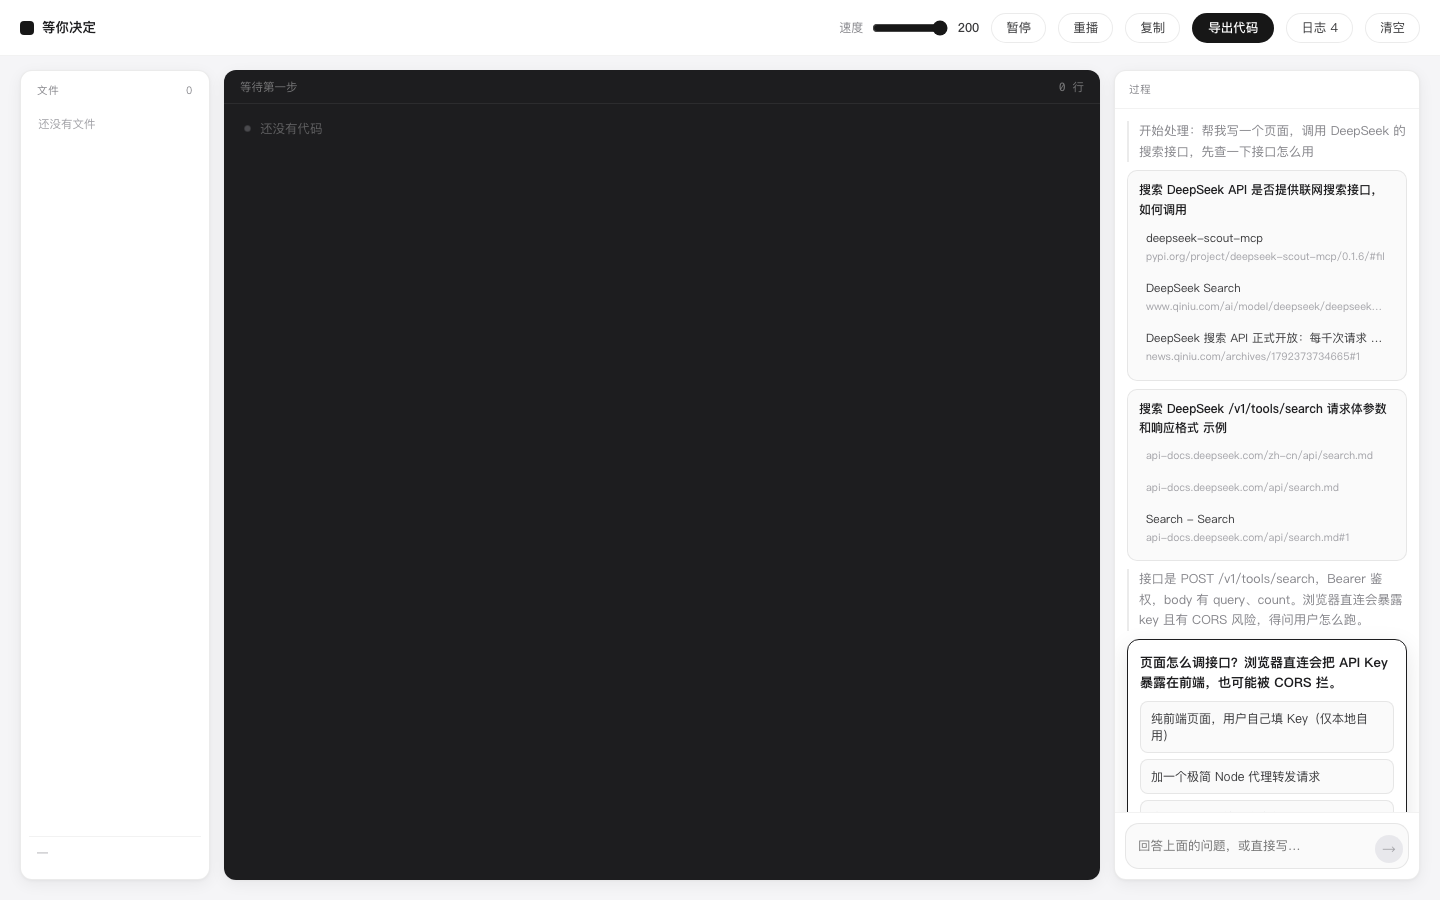
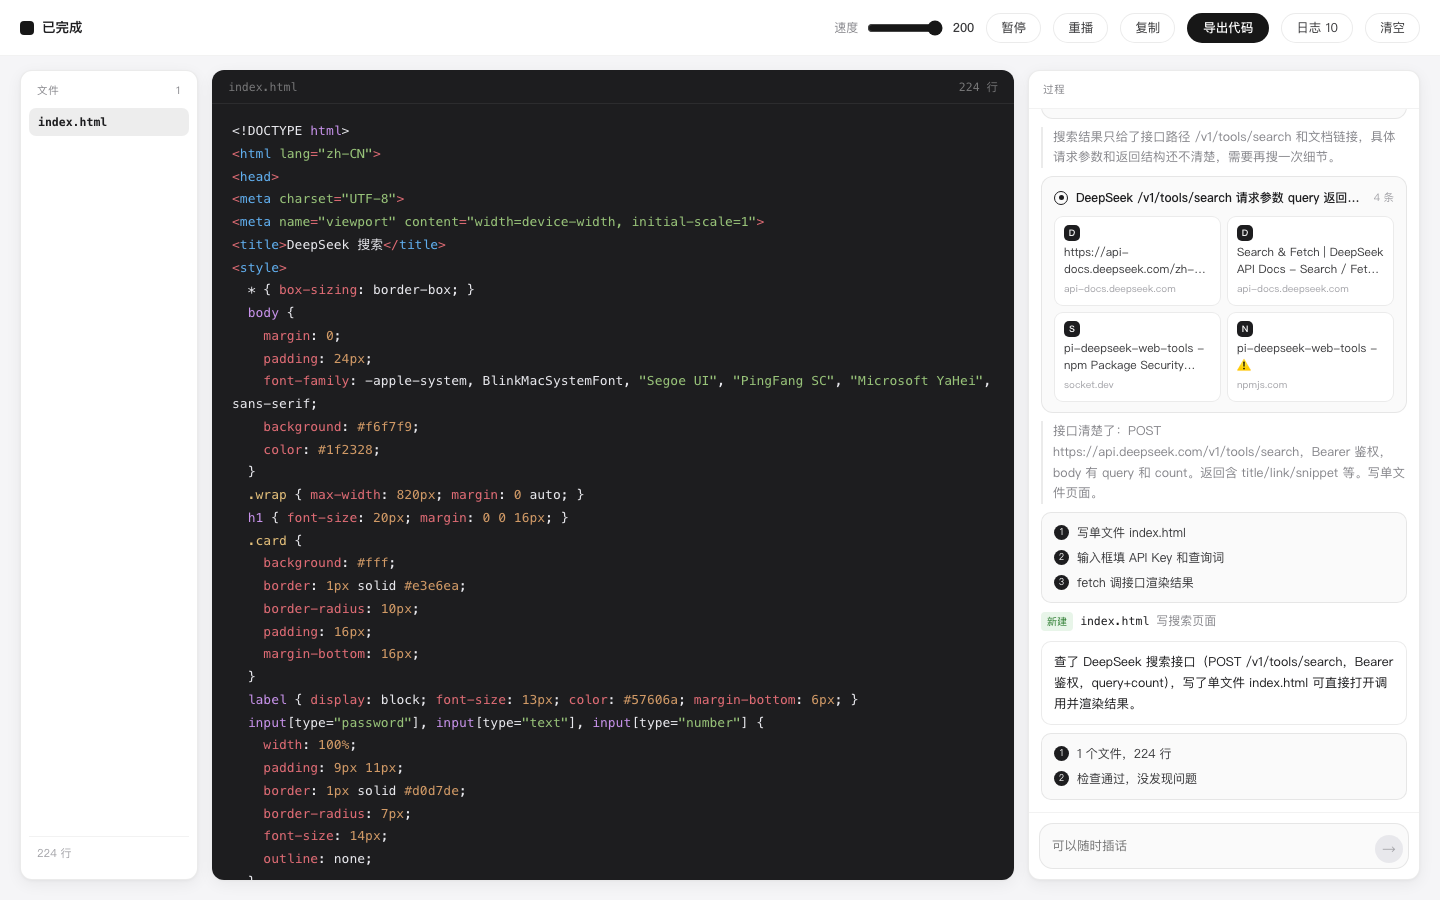
feat: 搜索改成两段式并在界面上可见，右栏加宽
之前搜索在服务端同步做完才返回，界面根本看不到"正在搜"。

后端：
- search 动作先只交回动作本身（带 pending_search）
- 前端立刻渲染"正在搜"，再带着 pending_search 请求一次把结果补上
- 结果按域名去重，同站最多两条
- 提示词平衡：只在不确定或需要最新信息时才搜，确定的事不要搜

前端：
- 搜索卡参考 rare-ui 的 web-search：转圈 → 打勾，来源以 2×2 卡片
  展示（首字母图标 / 标题 / 域名），依次淡入
- 右栏 306 → 392px，窄屏降级到 320
- 时间线自动滚到底，提问卡不再藏在下面

实测：问 asyncio 问题不搜索直接答；问写调搜索接口的页面会搜两次、
发现 key 暴露和 CORS 风险后停下来问用户。

diff --git a/web/src/App.tsx b/web/src/App.tsx
@@ -18,7 +18,11 @@ hljs.registerLanguage("go", go);
 type Event =
   | { action: "think"; text: string }
   | { action: "look"; path: string }
-  | { action: "search"; query: string; results?: { title: string; url: string; snippet: string }[] }
+  | {
+      action: "search";
+      query: string;
+      results?: { title: string; url: string; snippet: string; site?: string }[];
+    }
   | { action: "plan"; steps: string[] }
   | { action: "ask"; question: string; options: string[] }
   | { action: "write"; path: string; lang: string; label: string; code: string }
@@ -116,12 +120,14 @@ export default function App() {
   const startFilesRef = useRef<Record<string, string>>({});
   const itemsRef = useRef<Item[]>([]);
   const idRef = useRef(0);
+  const pendingCardRef = useRef<number | null>(null);
   const logsRef = useRef<{ t: number; tag: string; text: string }[]>([]);
   const runningRef = useRef(false);
   const waitingRef = useRef(false);
   const stepLabelRef = useRef("");
   const [ghostLabel, setGhostLabel] = useState("");
   const composerRef = useRef<HTMLTextAreaElement | null>(null);
+  const logRef = useRef<HTMLDivElement | null>(null);
 
   const note = (tag: string, text: string) => {
     const entry = { t: Date.now(), tag, text };
@@ -178,7 +184,7 @@ export default function App() {
     await nextRound();
   };
 
-  const nextRound = async () => {
+  const nextRound = async (pendingSearch = "") => {
     if (!runningRef.current || waitingRef.current) return;
     if (roundRef.current >= MAX_ROUNDS) {
       finish("步数到上限，先停在这里。");
@@ -190,6 +196,7 @@ export default function App() {
         messages: messagesRef.current,
         files: filesRef.current,
         round: roundRef.current,
+        pending_search: pendingSearch,
       });
       roundRef.current += 1;
       messagesRef.current = res.messages;
@@ -208,17 +215,30 @@ export default function App() {
   const handle = async (ev: Event) => {
     note(ev.action, "text" in ev && ev.text ? ev.text : "path" in ev ? ev.path : "");
 
-    if (
-      ev.action === "think" ||
-      ev.action === "look" ||
-      ev.action === "search" ||
-      ev.action === "plan"
-    ) {
+    if (ev.action === "search") {
+      if (!ev.results) {
+        // 第一段：先把"正在搜"挂出来，再去抓结果
+        push(ev);
+        pendingCardRef.current = itemsRef.current[itemsRef.current.length - 1].id;
+        window.setTimeout(() => void nextRound(ev.query), 60);
+        return;
+      }
+      // 第二段：结果回来，补到同一张卡上
+      const id = pendingCardRef.current;
+      pendingCardRef.current = null;
+      if (id != null) {
+        itemsRef.current = itemsRef.current.map((it) => (it.id === id ? { ...it, ev } : it));
+        setItems(itemsRef.current);
+      } else {
+        push(ev);
+      }
+      window.setTimeout(() => void nextRound(), 260);
+      return;
+    }
+
+    if (ev.action === "think" || ev.action === "look" || ev.action === "plan") {
       push(ev);
-      window.setTimeout(
-        () => void nextRound(),
-        ev.action === "plan" ? 700 : ev.action === "search" ? 500 : 350
-      );
+      window.setTimeout(() => void nextRound(), ev.action === "plan" ? 700 : 350);
       return;
     }
 
@@ -461,6 +481,13 @@ export default function App() {
     stepLabelRef.current = next;
   }, [stepLabel, snap.total, snap.finished]);
 
+  // 新内容一进来就滚到底，别让提问卡藏在下面
+  useEffect(() => {
+    const el = logRef.current;
+    if (!el) return;
+    el.scrollTop = el.scrollHeight;
+  }, [items, asking]);
+
   const copy = async () => {
     try {
       await navigator.clipboard.writeText(code);
@@ -626,7 +653,7 @@ export default function App() {
 
         <aside className="chat">
           <div className="chat-head">过程</div>
-          <div className="chat-log">
+          <div className="chat-log" ref={logRef}>
             {items.map((item) => (
               <TimelineItem
                 key={item.id}
@@ -706,6 +733,14 @@ export default function App() {
   );
 }
 
+function hostOf(url: string) {
+  try {
+    return new URL(url).hostname.replace(/^www\./, "");
+  } catch {
+    return url;
+  }
+}
+
 function countLines(files: Record<string, string>) {
   return Object.values(files).reduce((n, body) => n + body.split("\n").length - 1, 0);
 }
@@ -722,19 +757,38 @@ function TimelineItem({ item, live }: { item: Item; live?: boolean }) {
   }
 
   if (ev.action === "search") {
+    const done = Boolean(ev.results);
     return (
       <div className="tl search">
-        <div className="search-q">搜索 {ev.query}</div>
-        {ev.results && ev.results.length > 0 ? (
-          ev.results.slice(0, 3).map((r, i) => (
-            <a key={i} className="search-hit" href={r.url} target="_blank" rel="noreferrer">
-              <span className="hit-title">{r.title}</span>
-              <span className="hit-url">{r.url.replace(/^https?:\/\//, "").slice(0, 46)}</span>
-            </a>
-          ))
-        ) : (
-          <div className="search-empty">没搜到结果</div>
-        )}
+        <div className="ws-head">
+          <span className={`ws-ring ${done ? "done" : ""}`} />
+          <span className="ws-query">{ev.query}</span>
+          {done && <span className="ws-count">{ev.results!.length} 条</span>}
+        </div>
+
+        {!done && <div className="ws-waiting">正在搜…</div>}
+
+        {done &&
+          (ev.results!.length > 0 ? (
+            <div className="ws-grid">
+              {ev.results!.slice(0, 4).map((r, i) => (
+                <a
+                  key={i}
+                  className="ws-card"
+                  style={{ animationDelay: `${i * 45}ms` }}
+                  href={r.url}
+                  target="_blank"
+                  rel="noreferrer"
+                >
+                  <span className="ws-fav">{(r.site || hostOf(r.url))[0] ?? "·"}</span>
+                  <span className="ws-title">{r.title || r.url}</span>
+                  <span className="ws-host">{hostOf(r.url)}</span>
+                </a>
+              ))}
+            </div>
+          ) : (
+            <div className="ws-waiting">没搜到结果</div>
+          ))}
       </div>
     );
   }

diff --git a/web/src/styles.css b/web/src/styles.css
@@ -1367,3 +1367,151 @@ button {
   font-size: 11px;
   color: var(--faint);
 }
+
+/* ---- 右栏宽一点，来源卡片才排得开 ---- */
+.workspace {
+  grid-template-columns: 178px minmax(0, 1fr) 392px;
+}
+
+@media (max-width: 1280px) {
+  .workspace {
+    grid-template-columns: 150px minmax(0, 1fr) 320px;
+  }
+}
+
+/* ---- 搜索卡：正在搜是环，搜完是来源网格 ---- */
+.tl.search {
+  display: flex;
+  flex-direction: column;
+  gap: 8px;
+  padding: 11px 12px;
+  border-radius: 12px;
+  border: 1px solid var(--line);
+  background: #fafafa;
+}
+
+.ws-head {
+  display: flex;
+  align-items: center;
+  gap: 8px;
+}
+
+.ws-ring {
+  width: 14px;
+  height: 14px;
+  flex: 0 0 14px;
+  border-radius: 50%;
+  border: 1.5px solid var(--line);
+  border-top-color: var(--ink);
+  animation: ws-spin 0.8s linear infinite;
+}
+
+.ws-ring.done {
+  border-color: var(--ink);
+  animation: none;
+  position: relative;
+}
+
+.ws-ring.done::after {
+  content: "";
+  position: absolute;
+  inset: 3.5px;
+  border-radius: 50%;
+  background: var(--ink);
+}
+
+@keyframes ws-spin {
+  to {
+    transform: rotate(360deg);
+  }
+}
+
+.ws-query {
+  flex: 1;
+  min-width: 0;
+  font-size: 12px;
+  color: var(--ink);
+  font-weight: 500;
+  overflow: hidden;
+  text-overflow: ellipsis;
+  white-space: nowrap;
+}
+
+.ws-count {
+  font-size: 10.5px;
+  color: var(--faint);
+  font-variant-numeric: tabular-nums;
+}
+
+.ws-grid {
+  display: grid;
+  grid-template-columns: 1fr 1fr;
+  gap: 6px;
+}
+
+.ws-card {
+  display: flex;
+  flex-direction: column;
+  gap: 3px;
+  padding: 8px 9px;
+  border-radius: 9px;
+  border: 1px solid var(--line);
+  background: #fff;
+  text-decoration: none;
+  min-width: 0;
+  animation: ws-in 0.34s var(--ease) both;
+  transition: transform 0.16s var(--ease), box-shadow 0.16s var(--ease);
+}
+
+.ws-card:hover {
+  transform: translateY(-1px);
+  box-shadow: 0 4px 14px rgba(0, 0, 0, 0.08);
+}
+
+@keyframes ws-in {
+  from {
+    opacity: 0;
+    transform: translateY(6px) scale(0.97);
+  }
+  to {
+    opacity: 1;
+    transform: none;
+  }
+}
+
+.ws-fav {
+  width: 16px;
+  height: 16px;
+  border-radius: 5px;
+  background: var(--ink);
+  color: #fff;
+  font-size: 9px;
+  font-weight: 600;
+  display: grid;
+  place-items: center;
+  text-transform: uppercase;
+}
+
+.ws-title {
+  font-size: 11.5px;
+  line-height: 1.45;
+  color: var(--ink-soft);
+  display: -webkit-box;
+  -webkit-line-clamp: 2;
+  -webkit-box-orient: vertical;
+  overflow: hidden;
+}
+
+.ws-host {
+  font-size: 10px;
+  color: var(--faint);
+  overflow: hidden;
+  text-overflow: ellipsis;
+  white-space: nowrap;
+}
+
+.ws-waiting {
+  font-size: 11.5px;
+  color: var(--muted);
+  padding-left: 22px;
+}

diff --git a/backend/search.py b/backend/search.py
@@ -136,6 +136,24 @@ def fetch(url: str) -> str:
     return str(data.get("content") or "")[:6000]
 
 
+def dedupe(results: list[dict[str, Any]]) -> list[dict[str, Any]]:
+    """同一个域名最多留两条，别让一页文档占满整块。"""
+    seen_host: dict[str, int] = {}
+    out = []
+    seen_url = set()
+    for item in results:
+        url = item.get("url", "")
+        if not url or url in seen_url:
+            continue
+        host = url.split("/")[2] if url.startswith("http") else url
+        if seen_host.get(host, 0) >= 2:
+            continue
+        seen_host[host] = seen_host.get(host, 0) + 1
+        seen_url.add(url)
+        out.append(item)
+    return out
+
+
 def render(results: list[dict[str, Any]]) -> str:
     if not results:
         return "没有搜到结果。"

diff --git a/backend/main.py b/backend/main.py
@@ -30,12 +30,13 @@ class StepIn(BaseModel):
     messages: list[dict[str, str]]
     files: dict[str, str] = {}
     round: int = 0
+    pending_search: str = ""
 
 
 @app.post("/api/step")
 def post_step(body: StepIn) -> dict[str, Any]:
     try:
-        return agent.step(body.messages, body.files, body.round)
+        return agent.step(body.messages, body.files, body.round, body.pending_search)
     except agent.AgentError as exc:
         raise HTTPException(status_code=502, detail=str(exc)) from exc
 

diff --git a/README.md b/README.md
@@ -94,11 +94,14 @@ SEARCH_API_KEY=...
 
 没配 key 时整条链路关闭，prompt 里也会告诉模型"没有搜索能力，不要用 search"。
 
-查到的东西会进上下文，然后再决定怎么做。比如让它写一个调搜索接口的页面：
+**搜不搜由模型自己判断**，不是每个问题都搜。问它「asyncio.gather 和 TaskGroup 区别」
+它会直接答完收工；问它「写个调 DeepSeek 搜索接口的页面」，它才会先查文档。
+
+搜索是两段式的：先把「正在搜」推到界面（转圈），搜完再把来源补到同一张卡上。
 
 ![搜索](docs/31-search.png)
 
-它会搜两次、发现"浏览器直连会暴露 key 且有 CORS"，然后停下来问你要哪种跑法。
+它会搜两次、发现「浏览器直连会暴露 key 且有 CORS」，然后停下来问你要哪种跑法。
 
 ## 出错怎么查
 
